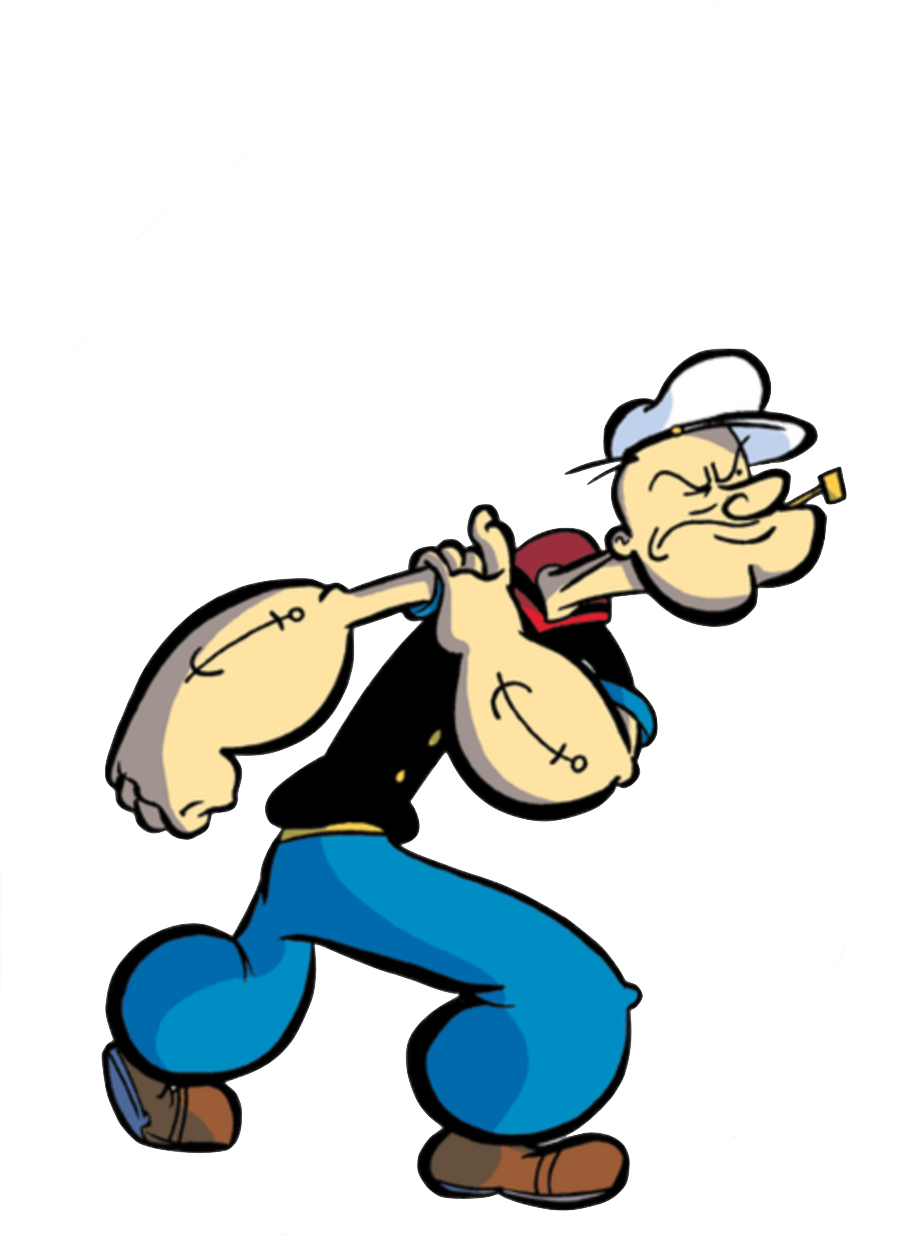
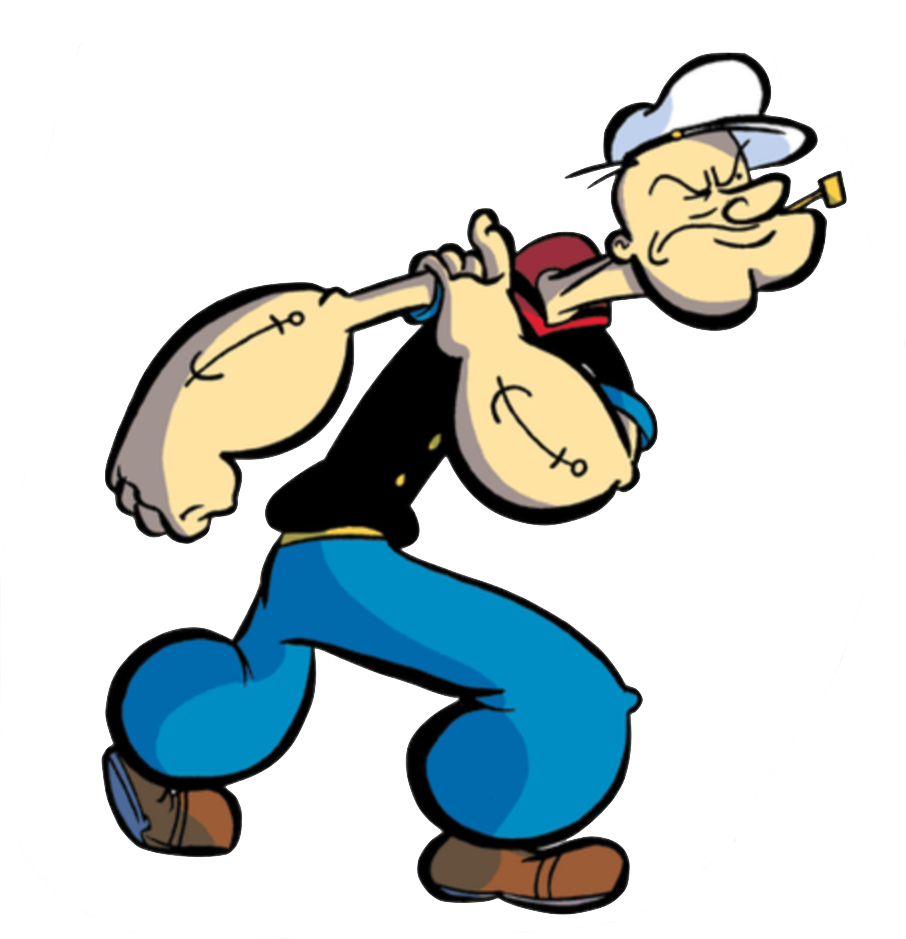
login page stays still and does not scroll

diff --git a/lifters-paradise-app/client/src/components/LandingPage/LandingPage.css b/lifters-paradise-app/client/src/components/LandingPage/LandingPage.css
@@ -1,12 +1,8 @@
-body {
-    background: #e9eaea;
-    font-family: roboto;
-}
-  
 .container {
     width: 450px;
     margin: 3% auto;
     background: #fff;
+    z-index: 3;
 }
 
 .login-register {
@@ -76,7 +72,7 @@ body {
 
 #popeye {
     position: relative;
-    bottom: 155px;
+    bottom: -30px;
     width: 35%;
     height: 35%;
 }
@@ -113,3 +109,10 @@ h1 {
 #color-switch {
     background-color: rgba(127, 134, 139, 0.692);
 }
+
+/* .login-background {
+    background-image: url('./popeye-background2.png');
+    background-size: 100% 100%;
+    border: 2px solid red;
+    height: 100vh;
+} */

diff --git a/lifters-paradise-app/client/src/components/LandingPage/Login.js b/lifters-paradise-app/client/src/components/LandingPage/Login.js
@@ -23,7 +23,7 @@ class Login extends React.Component {
         if(this.state.login) return <Redirect to="/register"/>
 
         return (
-            <div className='App'>
+            <div className='login-background'>
                 <h1>Welcome To Lifter's Paradise</h1>
                 <div className="bluto-vs-popeye">
                     <img id="popeye" src={require("./popeye2.png")} alt=""/>

diff --git a/lifters-paradise-app/client/src/App.css b/lifters-paradise-app/client/src/App.css
@@ -1,5 +1,7 @@
 body {
+  background: #e9eaea;
   height: 80vh;
+  font-family: roboto;
 }
 
 .App {
